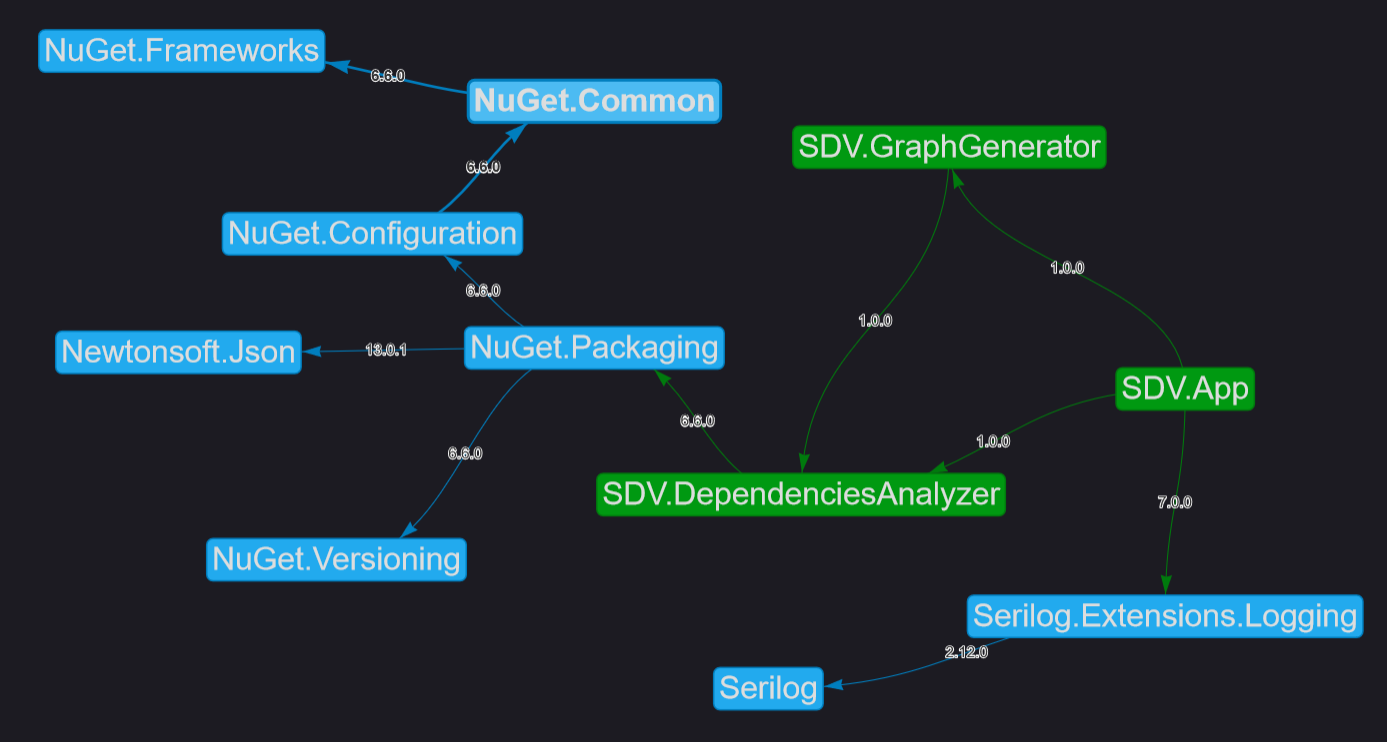
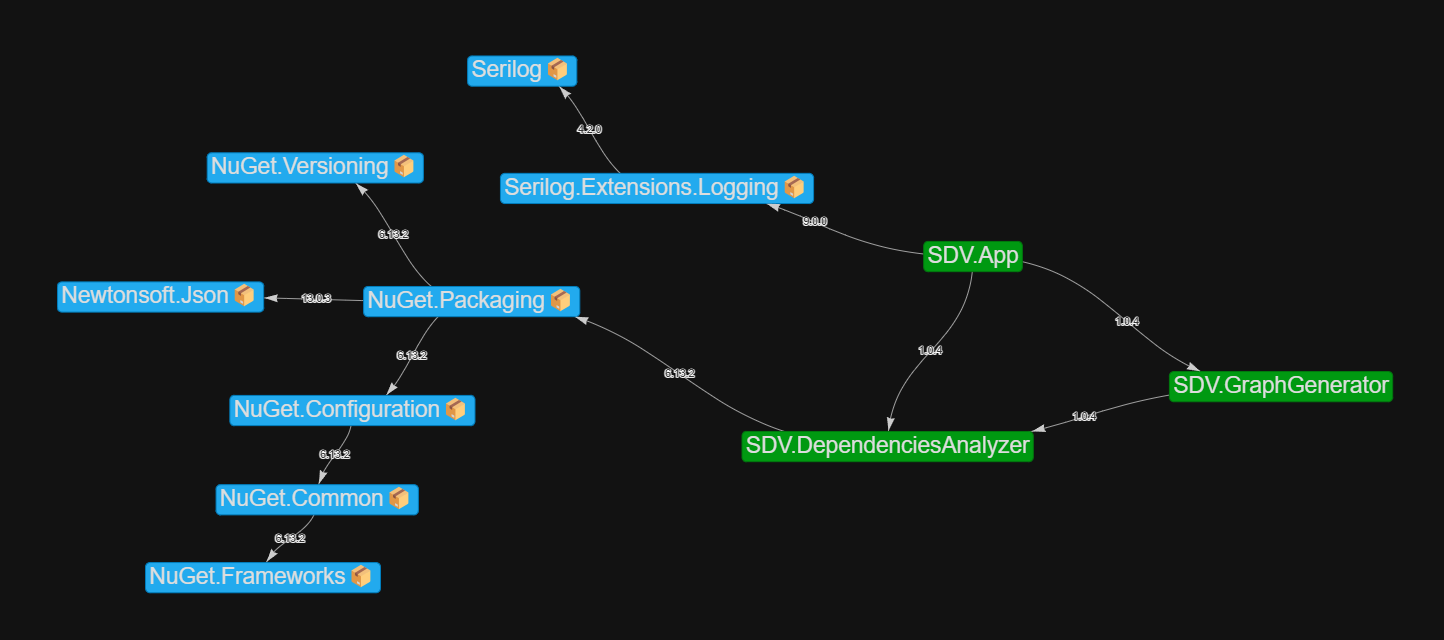
Upgrade to .NET 9. Update nugets

diff --git a/SDV.GraphGenerator/Services/Models/GraphProject.cs b/SDV.GraphGenerator/Services/Models/GraphProject.cs
@@ -5,15 +5,15 @@ namespace SDV.GraphGenerator.Services.Models;
 
 public class GraphProject
 {
-    public GraphPackage Package { get; init; }
-    public Dictionary<string, GraphEdge> Edges { get; init; } = new();
+    public required GraphPackage Package { get; init; }
+    public Dictionary<string, GraphEdge> Edges { get; } = new();
 }
 
 public class GraphPackage
 {
-    [JsonPropertyName("id")] public string Id { get; init; }
+    [JsonPropertyName("id")] public required string Id { get; init; }
 
-    [JsonPropertyName("label")] public string Label { get; set; }
+    [JsonPropertyName("label")] public required string Label { get; set; }
 
     [JsonPropertyName("type")] public string Type => TypeInternal.HasFlag(DependencyType.Project) ? DependencyType.Project.ToString() : DependencyType.Package.ToString();
         
@@ -25,11 +25,11 @@ public class GraphPackage
 
 public class GraphEdge
 {
-    [JsonPropertyName("from")] public string From { get; init; }
+    [JsonPropertyName("from")] public required string From { get; init; }
 
-    [JsonPropertyName("to")] public string To { get; init; }
+    [JsonPropertyName("to")] public required string To { get; init; }
 
-    [JsonPropertyName("label")] public string Label { get; set; }
+    [JsonPropertyName("label")] public required string Label { get; set; }
     
     [JsonPropertyName("multipleVersions")] public bool HasMultipleVersions { get; set; }
 }

diff --git a/README.md b/README.md
@@ -1,7 +1,7 @@
 # SDV - Solution Dependencies Visualiser
 
 ![MIT License](https://img.shields.io/github/license/AndriiLab/SDV)
-![.NET Core 8.0](https://img.shields.io/badge/.net%20core-8.0-blue)
+![.NET Core 9.0](https://img.shields.io/badge/.net%20core-9.0-blue)
 ![Last Commit](https://img.shields.io/github/last-commit/AndriiLab/SDV)
 ![Last release](https://img.shields.io/github/release-date/AndriiLab/SDV)
 
@@ -36,7 +36,7 @@ But you can also check functional output demo [here](https://andriilab.github.io
 ## Prerequisites
 
 - Windows platform (only supported for now by GUI)
-- [.NET 8](https://dotnet.microsoft.com/en-us/download/dotnet/8.0)
+- [.NET 9](https://dotnet.microsoft.com/en-us/download/dotnet/0.0)
 
 ## Installation
 
